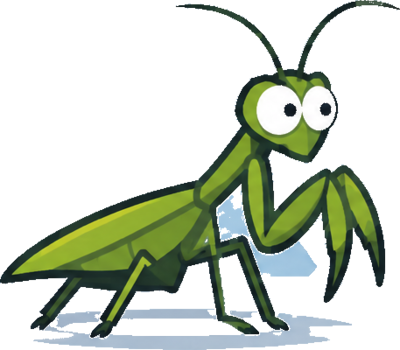
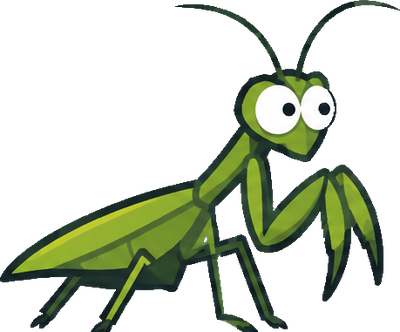
Mejorar la trompa y limpiar los sprites de insectos
Anima el estiramiento y golpe de la trompa con colmillo y estela. Reprocesa cucaracha, mantis, grillo, tarántula y escarabajo para quitar fondos y zonas transparentes.

Changed region(s): [[0.0, 0.0, 0.99, 1.0], [0.81, 0.0, 1.0, 0.0602], [0.78, 0.0602, 0.81, 0.1205]]

diff --git a/trompo.js b/trompo.js
@@ -669,8 +669,8 @@
 
     function attack() {
         if (mode !== 'running' || game.attackCooldown > 0) return;
-        game.attackTimer = 0.28;
-        game.attackCooldown = 0.42;
+        game.attackTimer = 0.34;
+        game.attackCooldown = 0.46;
         game.ducking = false;
         playSound('trunk');
     }
@@ -2488,6 +2488,55 @@ function drawMoth(insect) {
         ctx.restore();
     }
 
+    function drawTrunkAttack(attack, bottom, height, color, dark) {
+        if (attack <= 0) return;
+        const swing = Math.sin(attack * Math.PI);
+        const reach = swing * 56;
+        const lift = swing * 30;
+        const baseX = PLAYER_X + 42;
+        const baseY = bottom - height * 0.58;
+        const tipX = baseX + 34 + reach;
+        const tipY = baseY + 10 - lift;
+        const controlX = baseX + 28 + reach * 0.35;
+        const controlY = baseY + 26 - lift * 0.3;
+
+        ctx.save();
+        ctx.globalAlpha = 0.35;
+        ctx.strokeStyle = '#f8fafc';
+        ctx.lineWidth = 2;
+        for (let index = 1; index <= 3; index += 1) {
+            ctx.beginPath();
+            ctx.moveTo(baseX - 10 - index * 8, baseY + index * 5);
+            ctx.lineTo(baseX - 24 - index * 12, baseY + index * 7);
+            ctx.stroke();
+        }
+        ctx.globalAlpha = 1;
+        ctx.strokeStyle = dark;
+        ctx.lineWidth = 13;
+        ctx.lineCap = 'round';
+        ctx.beginPath();
+        ctx.moveTo(baseX, baseY);
+        ctx.quadraticCurveTo(controlX, controlY, tipX, tipY);
+        ctx.stroke();
+        ctx.strokeStyle = color;
+        ctx.lineWidth = 8;
+        ctx.beginPath();
+        ctx.moveTo(baseX, baseY);
+        ctx.quadraticCurveTo(controlX, controlY, tipX, tipY);
+        ctx.stroke();
+        ctx.strokeStyle = '#f8fafc';
+        ctx.lineWidth = 3;
+        ctx.beginPath();
+        ctx.arc(tipX - 4, tipY, 11 + swing * 5, -1.4, 0.6);
+        ctx.stroke();
+        ctx.lineWidth = 2;
+        ctx.beginPath();
+        ctx.moveTo(tipX + 2, tipY - 7);
+        ctx.lineTo(tipX + 14, tipY - 13);
+        ctx.stroke();
+        ctx.restore();
+    }
+
     function drawMammothSprite() {
         const theme = game.level.theme;
         const spinach = game.spinachTimer > 0;
@@ -2504,7 +2553,7 @@ function drawMoth(insect) {
         if (!getSprite(name)) return false;
 
         const bottom = game.playerY + (theme === 'beach' || theme === 'city' ? 4 : 2);
-        const attack = game.attackTimer > 0 ? 1 - game.attackTimer / 0.28 : 0;
+        const attack = game.attackTimer > 0 ? 1 - game.attackTimer / 0.34 : 0;
         const bob = game.onGround ? (reduceMotion ? 0 : Math.sin(game.elapsed * 13) * 1.2) : 0;
 
         ctx.save();
@@ -2527,15 +2576,9 @@ function drawMoth(insect) {
             ctx.scale(1, 0.74);
             ctx.translate(-PLAYER_X, -bottom);
         }
-        drawSpriteByHeight(name, PLAYER_X + attack * 12, bottom, height);
-
-        if (attack > 0.15) {
-            ctx.strokeStyle = 'rgba(248, 250, 252, 0.9)';
-            ctx.lineWidth = 3;
-            ctx.beginPath();
-            ctx.arc(PLAYER_X + 58 + attack * 18, game.playerY - 54, 12 + attack * 12, -1.1, 0.6);
-            ctx.stroke();
-        }
+        const lunge = Math.sin(attack * Math.PI) * 16;
+        drawSpriteByHeight(name, PLAYER_X + lunge, bottom, height);
+        drawTrunkAttack(attack, bottom, height, spinach ? '#4d7c0f' : '#557a94', spinach ? '#365314' : '#1b2838');
 
         ctx.restore();
         return true;
